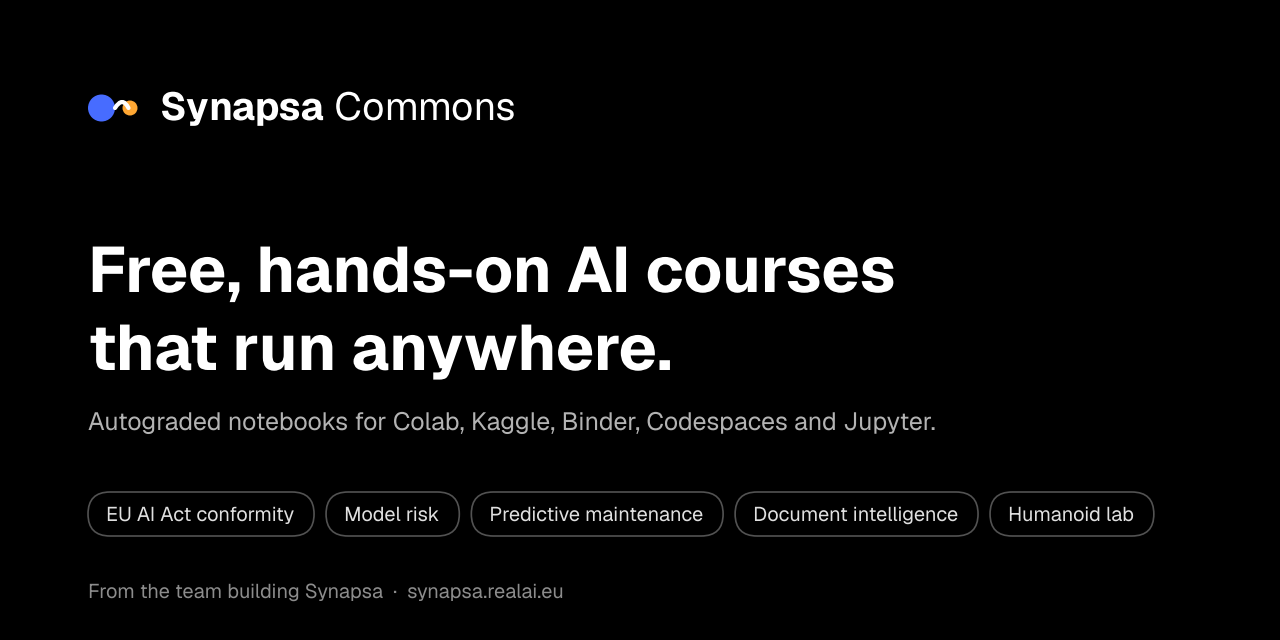
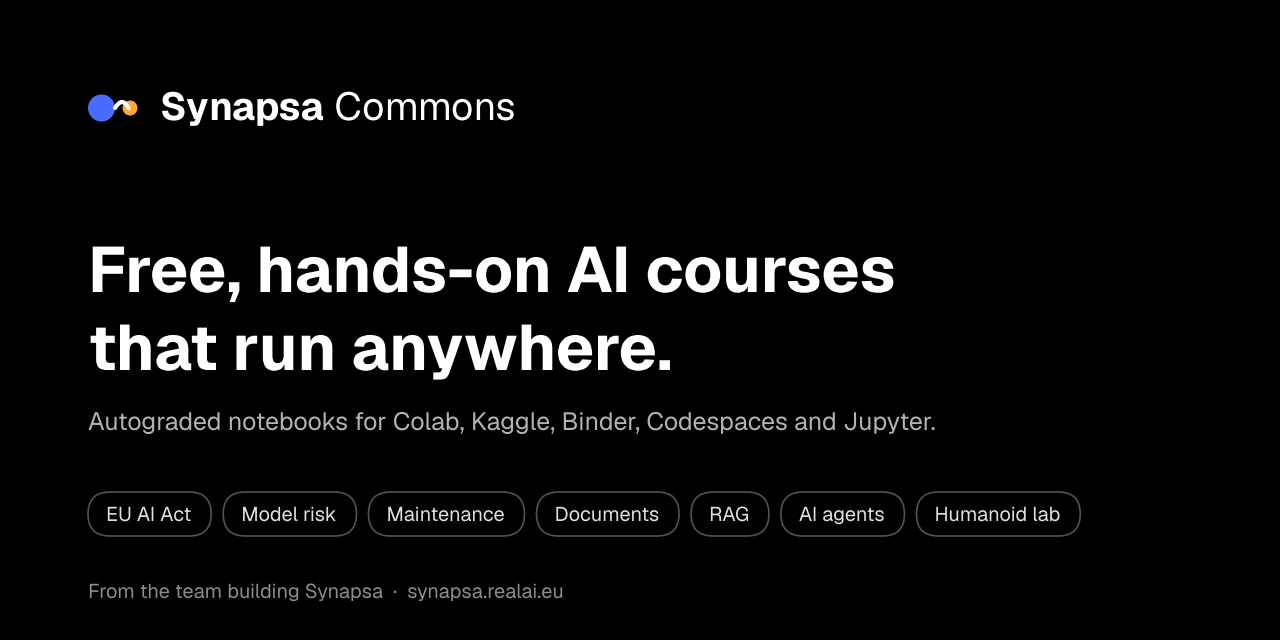
Roadmap names the agents track; social card lists RAG and agents

Changed region(s): [[0.1562, 0.75, 0.9062, 0.8438]]

diff --git a/tools/brand_lockups.py b/tools/brand_lockups.py
@@ -89,8 +89,8 @@ def draw(name, fonts, ink, blue, saffron, stroke, bg=None):
     print(f"  wrote brand/{name}.png  ({round(W) * 2} x {H * 2} px)")
 
 
-COURSES = ("EU AI Act conformity", "Model risk", "Predictive maintenance",
-           "Document intelligence", "Humanoid lab")
+COURSES = ("EU AI Act", "Model risk", "Maintenance", "Documents",
+           "RAG", "AI agents", "Humanoid lab")
 
 
 def measure(s, prop, size):

diff --git a/README.md b/README.md
@@ -66,7 +66,7 @@ New lessons three times a week, every Monday, Wednesday and Friday. Watch or sta
 
 ```mermaid
 timeline
-    September 2026 : Document intelligence for regulated operations, and retrieval and RAG begins
+    September 2026 : Document intelligence for regulated operations, retrieval and RAG, and the agents track begins
     October 2026 : AI agents and the protocols they speak, AI for science, serving models on modest hardware, post-training from scratch, and evaluating across languages
     November 2026 : A new industry programme on evidence-based credit decisions
     December 2026 : Deeper courses in the industries we already cover
